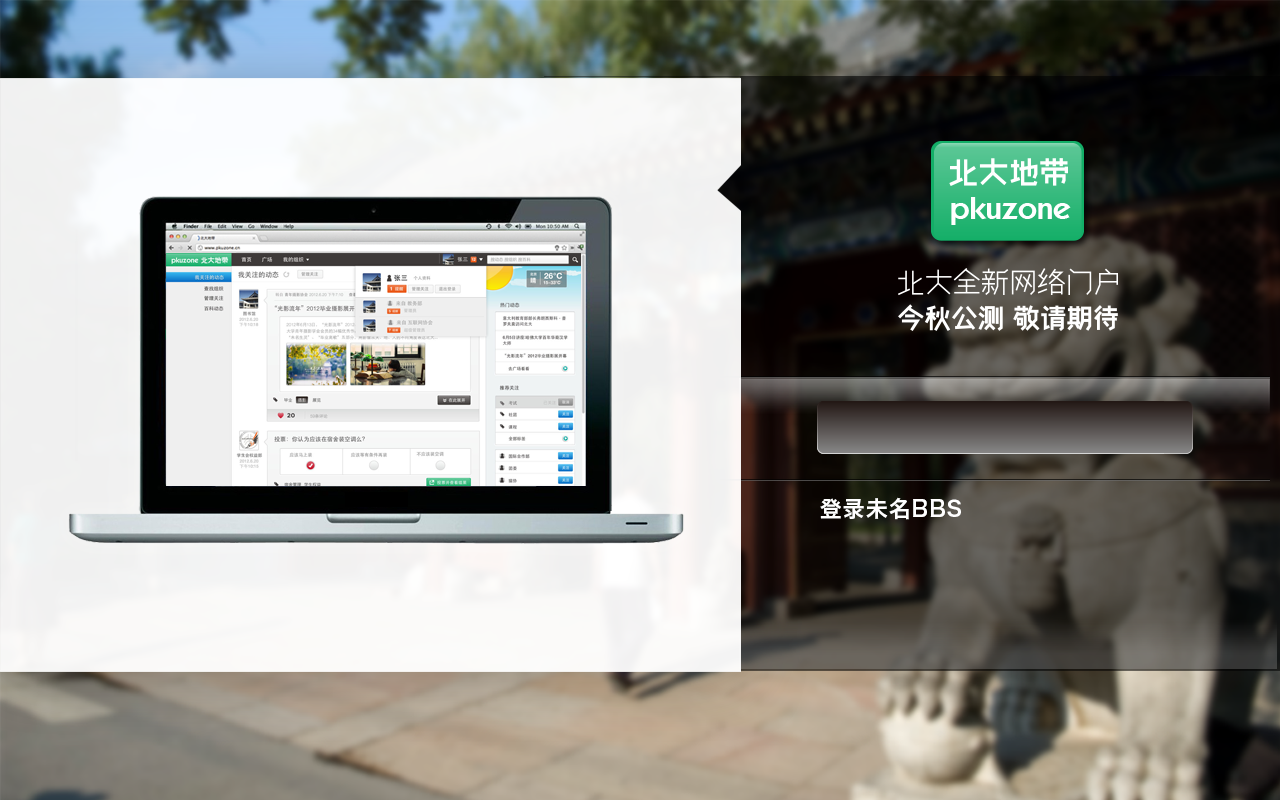
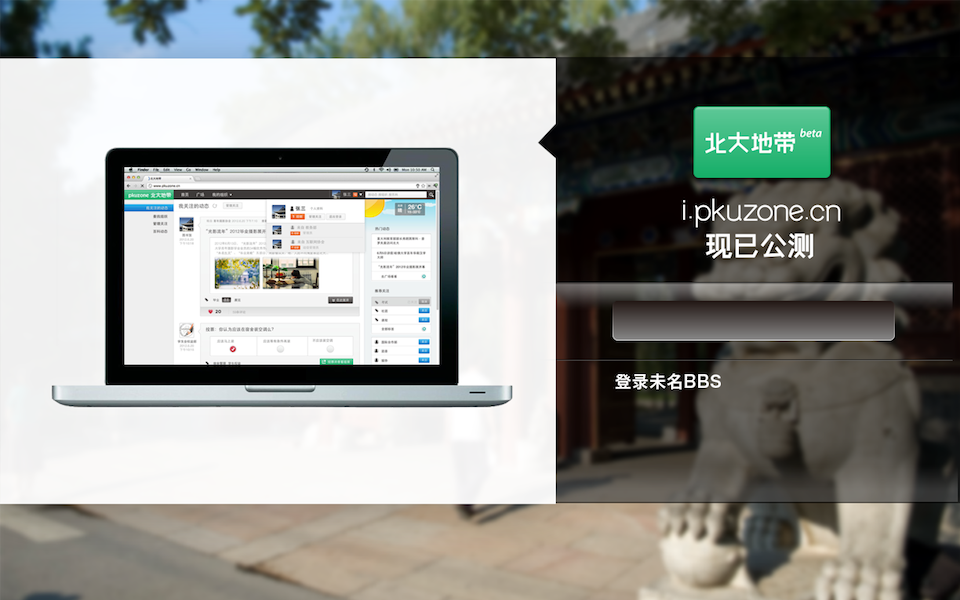
修改背景图片

diff --git a/bdwm-entrance.html b/bdwm-entrance.html
@@ -1,10 +1,11 @@
 <!DOCTYPE html>
 <html>
   <head>
-    <meta charset="utf-8" />
+    <meta http-equiv="X-UA-Compatible" content="IE=edge" >
     <meta http-equiv="Content-Type" content="text/html;charset=utf-8">
+    <meta charset="utf-8" />
     <title>北大未名BBS</title>
-    <meta name="author" content="" />
+    <meta name="author" content="Leedy" />
     <meta name="description" content="北京大学未名BBS bbs.pku.edu.cn" />
     <link rel="stylesheet" href="pkuzone.css" type="text/css" />
 
@@ -14,7 +15,6 @@
     <script type="text/javascript" src="js/jquery-1.8.0.min.js"></script> 
     <script type="text/javascript" src="js/jquery-ui-1.8.23.custom.min.js"></script>
     <script type="text/javascript" src="js/userlogin.modified.js"></script> 
-    <script type="text/javascript" src="js/manongdasai.js"></script> 
     <script type="text/javascript" src="js/html5placeholder.jquery.js"></script>
     
   </head>
@@ -38,8 +38,9 @@
         </div>
       </div>
     </div>
-    <p id="top-p">欢迎您提供宝贵建议帮助我们改进，<a href="http://sysop.bdwm.net/">将您的想法告诉我们</a>。推荐使用ssh方式登陆，Term软件下载请点击<a class="cn" href="http://bbs.pku.edu.cn/download.html" target="_blank">这里</a>。</p>
+    <p>遇到登录困难的朋友请点击<a href="/login-problem/" target="_blank">此处</a>，尝试按照指引修改一下设置。欢迎您提供宝贵建议帮助我们改进，<a href="http://sysop.bdwm.net/">将您的想法告诉我们</a>。推荐使用ssh方式登陆，Term软件下载请点击<a class="cn" href="http://bbs.pku.edu.cn/download.html" target="_blank">这里</a>。</p>
     <p>© 2001-2012 <a href="http://bbs.pku.edu.cn">bbs.pku.edu.cn</a> All Rights Reserved.</p>
+    <!-- <p><iframe width="236" height="24" frameborder="0" allowtransparency="true" marginwidth="0" marginheight="0" scrolling="no" border="0" src="http://widget.weibo.com/relationship/followbutton.php?language=zh_cn&height=24&uid=1789832871&style=3&btn=light&dpc=1"></iframe></p> -->
     <script>
       $(function(){
         var show_login = function(){
@@ -68,12 +69,12 @@
         });
         $('#slider').mouseup(function(){
             if (parseInt(this.style.left) > 210) {
-              window.location.href='http://irsa.bdwm.net'; 
+              // window.location.href='http://irsa.bdwm.net';
+              // window.open("http://i.pkuzone.cn");
             }
             $('#know-more').fadeTo('slow',1);
         });
       });
     </script>
-    
   </body>
 </html>
